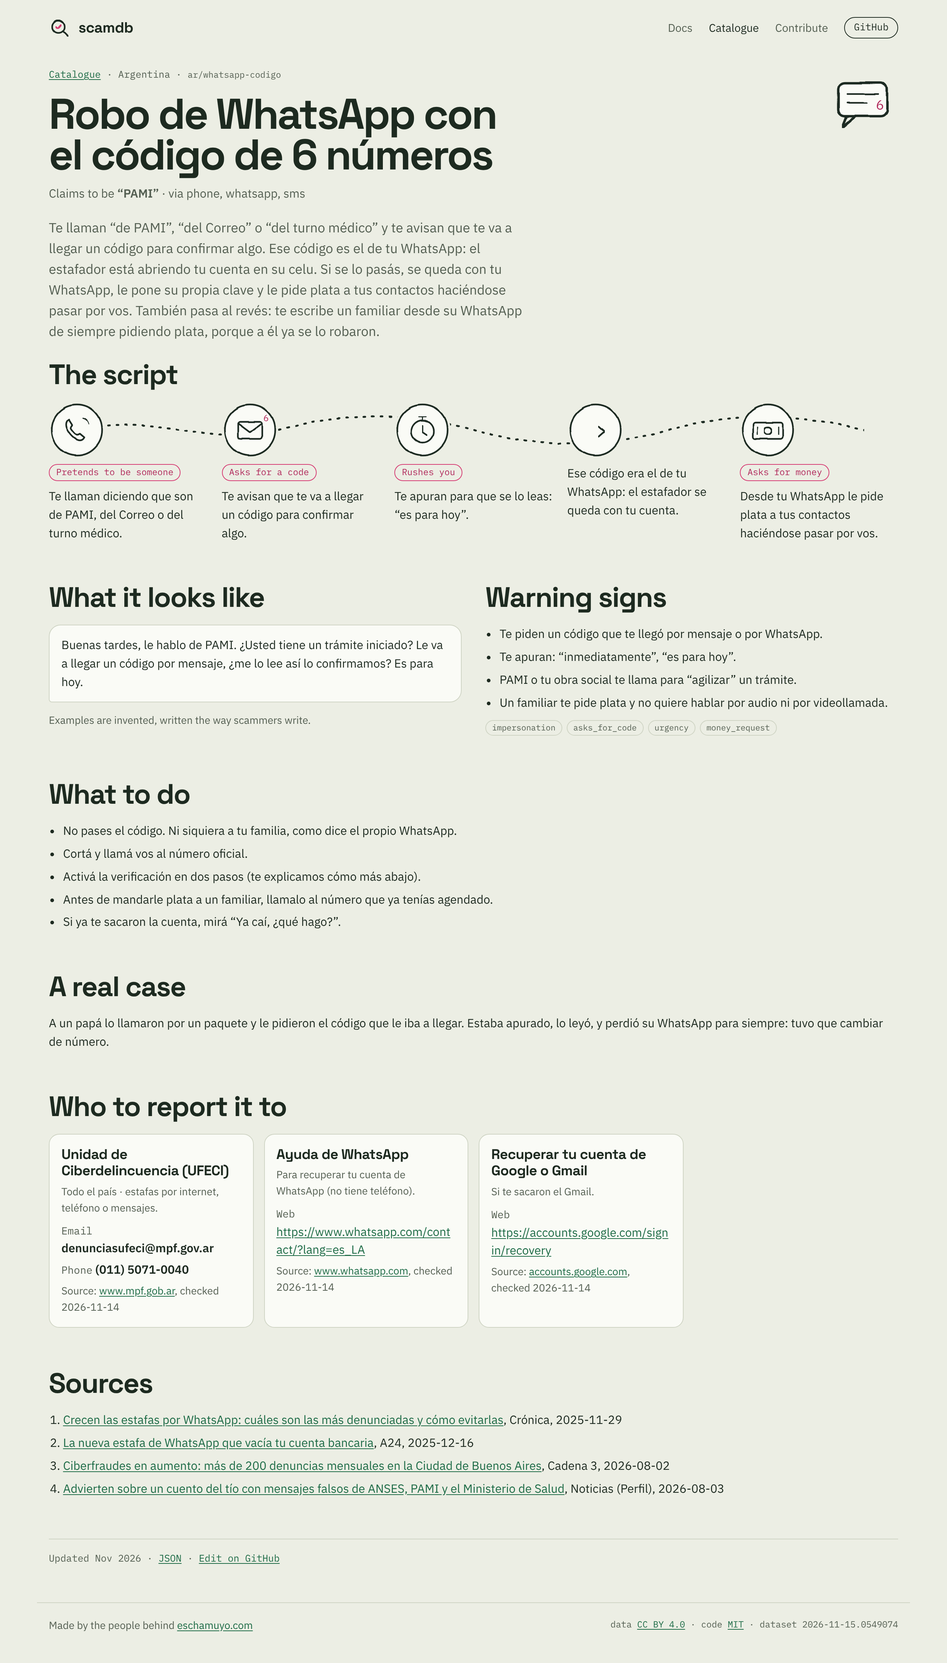
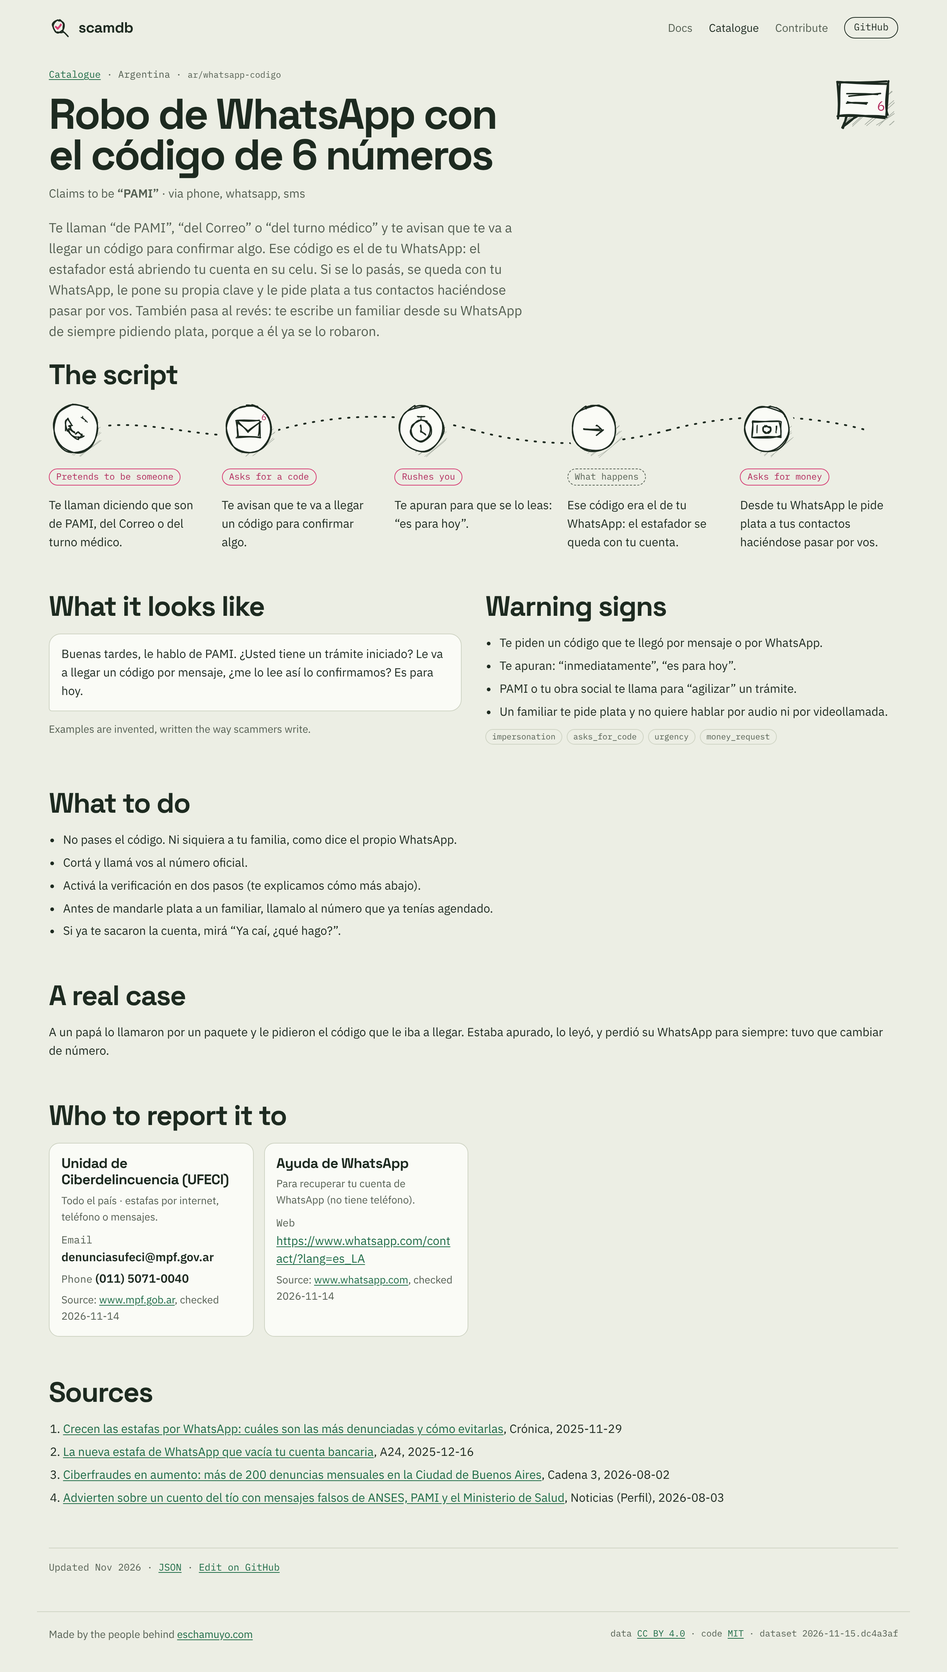
feat(site): pen-and-shading drawings everywhere; steps spacing and labels
Claude-Session: https://claude.ai/code/session_018T2J1K6Mk5un4HEeZgARrY

diff --git a/site/templates/icons.js b/site/templates/icons.js
@@ -1,19 +1,74 @@
-// Hand-drawn icons (64×64). Strokes use the .d / .d-thin / .d-acc classes; the #rough filter makes them wobble.
-const svg = (inner) => `<svg class="ic" viewBox="0 0 64 64" aria-hidden="true" focusable="false">${inner}</svg>`;
+// Hand-drawn icons, generated at build time in the pen-and-shading style (lib/sketch.js).
+import { sketch } from '../../lib/sketch.js';
+
+const svg = (inner, size = 64) => `<svg class="ic" viewBox="0 0 ${size} ${size}" aria-hidden="true" focusable="false">${inner}</svg>`;
+
+/** Draws one icon: `parts` is a list of [shape, ...args, opts?] run through a sketcher with its own seed. */
+function icon(seed, parts, extra = '') {
+  const s = sketch(seed);
+  return svg(parts.map(([shape, ...args]) => s[shape](...args)).join('') + extra);
+}
 
 export const ICONS = {
-  phone: svg('<path class="d" d="M20 14 c-6 3-8 12-2 22 s16 18 23 18 c4 0 7-3 8-6 l-9-7 c-3 1-4 3-7 1 s-8-8-9-11 c0-3 2-4 3-6 z"/><path class="d-acc" d="M40 12 c6 1 10 5 12 11 M38 20 c3 1 5 3 6 6"/>'),
-  sms: svg('<rect class="d f-card" x="10" y="14" width="44" height="30" rx="6"/><path class="d" d="M18 44 l-4 10 12-10"/><path class="d-thin" d="M18 24 h28 M18 32 h18"/><text x="44" y="38" class="t-code">6</text>'),
-  house: svg('<path class="d" d="M10 30 L32 12 54 30"/><path class="d f-card" d="M16 26 v26 h32 v-26"/><rect class="d" x="27" y="36" width="10" height="16"/><path class="d-acc" d="M46 6 v8 M46 18 v.5"/>'),
-  bank: svg('<path class="d" d="M8 24 L32 10 56 24 z"/><path class="d" d="M14 28 v20 M24 28 v20 M40 28 v20 M50 28 v20"/><path class="d" d="M8 52 h48"/><circle class="d-acc" cx="32" cy="38" r="5"/>'),
-  screen: svg('<rect class="d f-card" x="10" y="14" width="44" height="30" rx="3"/><path class="d" d="M24 52 h16 M32 44 v8"/><path class="d-acc" d="M26 26 l6 6 -6 6 M34 38 h6"/>'),
-  card: svg('<rect class="d f-card" x="8" y="18" width="48" height="30" rx="4"/><path class="d" d="M8 26 h48"/><path class="d-acc" d="M16 38 h12"/>'),
-  heart: svg('<path class="d f-card" d="M32 52 C 14 40, 8 30, 14 20 c5-7 14-6 18 2 c4-8 13-9 18-2 c6 10 0 20-18 32 z"/><path class="d-acc" d="M44 14 l6-6 M48 20 l8-2"/>'),
-  ticket: svg('<path class="d f-card" d="M10 20 h44 v8 a4 4 0 0 0 0 8 v8 h-44 v-8 a4 4 0 0 0 0-8 z"/><path class="d-thin" d="M40 20 v24" stroke-dasharray="3 3"/><path class="d-acc" d="M18 28 l12 8 M30 28 l-12 8"/>'),
-  chart: svg('<path class="d" d="M10 52 h46 M12 52 V12"/><path class="d-acc" d="M14 44 L26 32 34 38 52 16"/><path class="d" d="M44 16 h8 v8"/>'),
-  gift: svg('<rect class="d f-card" x="12" y="26" width="40" height="26" rx="2"/><path class="d" d="M10 20 h44 v6 h-44 z M32 20 v32"/><path class="d-acc" d="M32 20 c-4-10-16-8-10 0 M32 20 c4-10 16-8 10 0"/>'),
-  cart: svg('<path class="d" d="M8 12 h8 l6 28 h28 l4-18 H20"/><circle class="d" cx="26" cy="50" r="3"/><circle class="d" cx="46" cy="50" r="3"/><path class="d-acc" d="M30 28 h14"/>'),
-  briefcase: svg('<rect class="d f-card" x="10" y="20" width="44" height="30" rx="3"/><path class="d" d="M24 20 v-6 h16 v6 M10 32 h44"/><circle class="d-acc" cx="32" cy="32" r="3"/>'),
+  phone: icon(101, [
+    ['path', 'M20 14 c-6 3-8 12-2 22 s16 18 23 18 c4 0 7-3 8-6 l-9-7 c-3 1-4 3-7 1 s-8-8-9-11 c0-3 2-4 3-6 z', { fill: 'card', shade: true }],
+    ['path', 'M40 12 c6 1 10 5 12 11 M38 20 c3 1 5 3 6 6', { kind: 'acc' }],
+  ]),
+  sms: icon(111, [
+    ['rect', 10, 14, 44, 30, { fill: 'card', shade: true }],
+    ['path', 'M18 44 l-4 10 12-10'],
+    ['path', 'M18 24 h28 M18 32 h18', { kind: 'thin' }],
+  ], '<text x="45" y="39" class="t-code">6</text>'),
+  house: icon(121, [
+    ['path', 'M16 26 v26 h32 v-26', { fill: 'card', shade: true }],
+    ['path', 'M10 30 L32 12 L54 30'],
+    ['rect', 27, 36, 10, 16],
+    ['path', 'M46 6 v8 M46 18 v1', { kind: 'acc' }],
+  ]),
+  bank: icon(131, [
+    ['path', 'M8 24 L32 10 L56 24 Z', { fill: 'card', shade: true }],
+    ['path', 'M14 28 v20 M24 28 v20 M40 28 v20 M50 28 v20 M8 52 h48'],
+    ['circle', 32, 38, 10, { kind: 'acc' }],
+  ]),
+  screen: icon(141, [
+    ['rect', 10, 14, 44, 30, { fill: 'card', shade: true }],
+    ['path', 'M24 52 h16 M32 44 v8'],
+    ['path', 'M26 26 l6 6 -6 6 M34 38 h6', { kind: 'acc' }],
+  ]),
+  card: icon(151, [
+    ['rect', 8, 18, 48, 30, { fill: 'card', shade: true }],
+    ['path', 'M8 26 h48'],
+    ['path', 'M16 38 h12', { kind: 'acc' }],
+  ]),
+  heart: icon(161, [
+    ['path', 'M32 52 C 14 40, 8 30, 14 20 c5-7 14-6 18 2 c4-8 13-9 18-2 c6 10 0 20-18 32 z', { fill: 'card', shade: true }],
+    ['path', 'M44 14 l6-6 M48 20 l8-2', { kind: 'acc' }],
+  ]),
+  ticket: icon(171, [
+    ['path', 'M10 20 h44 v8 a4 4 0 0 0 0 8 v8 h-44 v-8 a4 4 0 0 0 0-8 z', { fill: 'card', shade: true }],
+    ['path', 'M40 22 v20', { kind: 'thin' }],
+    ['path', 'M18 28 l12 8 M30 28 l-12 8', { kind: 'acc' }],
+  ]),
+  chart: icon(181, [
+    ['path', 'M10 52 h46 M12 52 V12'],
+    ['path', 'M14 44 L26 32 L34 38 L52 16', { kind: 'acc' }],
+    ['path', 'M44 16 h8 v8'],
+  ]),
+  gift: icon(191, [
+    ['rect', 12, 26, 40, 26, { fill: 'card', shade: true }],
+    ['path', 'M10 20 h44 v6 h-44 z M32 20 v32'],
+    ['path', 'M32 20 c-4-10-16-8-10 0 M32 20 c4-10 16-8 10 0', { kind: 'acc' }],
+  ]),
+  cart: icon(201, [
+    ['path', 'M8 12 h8 l6 28 h28 l4-18 H20'],
+    ['circle', 26, 50, 6], ['circle', 46, 50, 6],
+    ['path', 'M30 28 h14', { kind: 'acc' }],
+  ]),
+  briefcase: icon(211, [
+    ['rect', 10, 20, 44, 30, { fill: 'card', shade: true }],
+    ['path', 'M24 20 v-6 h16 v6 M10 32 h44'],
+    ['circle', 32, 32, 6, { kind: 'acc' }],
+  ]),
 };
 
 const RULES = [
@@ -35,19 +90,23 @@ export function iconFor(entry) {
   return ICONS.phone;
 }
 
-/** Small drawings for the steps of a script, by warning sign. */
-const step = (inner) => `<svg viewBox="0 0 76 76" aria-hidden="true" focusable="false"><circle class="d f-card" cx="38" cy="38" r="34"/>${inner}</svg>`;
+/** Drawings for the steps of a script, by warning sign: a shaded circle with a small pen icon. */
+function step(seed, parts, extra = '') {
+  const s = sketch(seed);
+  const inner = s.circle(38, 38, 66, { fill: 'card', shade: true }) + parts.map(([shape, ...args]) => s[shape](...args)).join('');
+  return `<svg viewBox="0 0 80 80" aria-hidden="true" focusable="false">${inner}${extra}</svg>`;
+}
 export const STEP_ICONS = {
-  impersonation: step('<path class="d" d="M27 24 c-4 2-5 8-1 15 s11 13 16 13 c3 0 5-2 6-4 l-6-5 c-2 1-3 2-5 1 s-6-6-7-8 c0-2 1-3 2-4 z"/><path class="d-thin" d="M46 22 c4 1 7 4 8 8"/>'),
-  asks_for_code: step('<rect class="d" x="22" y="27" width="32" height="23" rx="3"/><path class="d" d="M22 29 l16 12 16-12"/><text x="56" y="26" class="t-code">6</text>'),
-  remote_access: step('<rect class="d" x="21" y="24" width="34" height="23" rx="2"/><path class="d" d="M31 54 h14 M38 47 v7"/><path class="d-acc" d="M30 32 l5 4 -5 4"/>'),
-  urgency: step('<circle class="d" cx="38" cy="40" r="15"/><path class="d" d="M38 32 v9 l6 4"/><path class="d-thin" d="M33 20 h10 M38 20 v5"/>'),
-  money_request: step('<rect class="d" x="18" y="28" width="40" height="22" rx="3"/><circle class="d" cx="38" cy="39" r="5"/><path class="d-thin" d="M24 34 v10 M52 34 v10"/>'),
-  unknown_link: step('<path class="d" d="M33 43 l-5 5 a6 6 0 0 1 -9 -9 l7 -7 a6 6 0 0 1 9 0"/><path class="d" d="M43 33 l5 -5 a6 6 0 0 1 9 9 l-7 7 a6 6 0 0 1 -9 0"/><path class="d-acc" d="M33 43 l10 -10"/>'),
-  new_number: step('<rect class="d" x="28" y="18" width="20" height="38" rx="4"/><path class="d-acc" d="M34 50 h8"/><text x="50" y="26" class="t-code">+</text>'),
-  secrecy: step('<path class="d" d="M24 40 c6-8 22-8 28 0 c-6 8-22 8-28 0 z"/><path class="d-acc" d="M22 52 L54 26"/>'),
-  keep_on_line: step('<path class="d" d="M24 30 c8-6 20-6 28 0"/><path class="d" d="M28 36 c6-4 14-4 20 0"/><circle class="d-acc" cx="38" cy="46" r="3"/>'),
-  too_good_to_be_true: step('<path class="d" d="M38 20 l5 11 12 1 -9 8 3 12 -11-6 -11 6 3-12 -9-8 12-1 z"/>'),
-  plain: step('<path class="d" d="M24 40 h24"/><path class="d" d="M42 33 l8 7 -8 7"/>'),
-  end: step('<rect class="d" x="25" y="36" width="26" height="20" rx="3"/><path class="d" d="M31 36 v-6 a8 8 0 0 1 15 -3"/><circle class="f-ink" cx="38" cy="46" r="2.4"/>'),
+  impersonation: step(301, [['path', 'M27 24 c-4 2-5 8-1 15 s11 13 16 13 c3 0 5-2 6-4 l-6-5 c-2 1-3 2-5 1 s-6-6-7-8 c0-2 1-3 2-4 z'], ['path', 'M46 22 c4 1 7 4 8 8', { kind: 'thin' }]]),
+  asks_for_code: step(311, [['rect', 22, 27, 32, 23], ['path', 'M22 29 l16 12 16-12']], '<text x="56" y="26" class="t-code">6</text>'),
+  remote_access: step(321, [['rect', 21, 24, 34, 23], ['path', 'M31 54 h14 M38 47 v7'], ['path', 'M30 32 l5 4 -5 4', { kind: 'acc' }]]),
+  urgency: step(331, [['circle', 38, 41, 30], ['path', 'M38 33 v9 l6 4'], ['path', 'M33 21 h10 M38 21 v5', { kind: 'thin' }]]),
+  money_request: step(341, [['rect', 18, 28, 40, 22], ['circle', 38, 39, 10], ['path', 'M24 34 v10 M52 34 v10', { kind: 'thin' }]]),
+  unknown_link: step(351, [['path', 'M33 43 l-5 5 a6 6 0 0 1 -9 -9 l7 -7 a6 6 0 0 1 9 0'], ['path', 'M43 33 l5 -5 a6 6 0 0 1 9 9 l-7 7 a6 6 0 0 1 -9 0'], ['path', 'M33 43 l10 -10', { kind: 'acc' }]]),
+  new_number: step(361, [['rect', 28, 18, 20, 38], ['path', 'M34 50 h8', { kind: 'acc' }]], '<text x="50" y="26" class="t-code">+</text>'),
+  secrecy: step(371, [['path', 'M24 40 c6-8 22-8 28 0 c-6 8-22 8-28 0 z'], ['path', 'M22 52 L54 26', { kind: 'acc' }]]),
+  keep_on_line: step(381, [['path', 'M24 30 c8-6 20-6 28 0'], ['path', 'M28 36 c6-4 14-4 20 0'], ['circle', 38, 46, 6, { kind: 'acc' }]]),
+  too_good_to_be_true: step(391, [['path', 'M38 20 l5 11 12 1 -9 8 3 12 -11-6 -11 6 3-12 -9-8 12-1 z']]),
+  plain: step(401, [['path', 'M24 40 h24'], ['path', 'M42 33 l8 7 -8 7']]),
+  end: step(411, [['rect', 25, 36, 26, 20], ['path', 'M31 36 v-6 a8 8 0 0 1 15 -3'], ['circle', 38, 46, 4]]),
 };

diff --git a/site/templates/home.js b/site/templates/home.js
@@ -2,6 +2,7 @@ import { esc, L } from './html.js';
 import { layout } from './layout.js';
 import { steps, card, entryUrl } from './parts.js';
 import { pick } from '../../lib/text.js';
+import { sketch, roundRect } from '../../lib/sketch.js';
 
 export const FEATURED = ['ar/cuento-del-tio', 'ar/falso-banco', 'ar/acceso-remoto'];
 export const ROUTE = 'ar/whatsapp-codigo';
@@ -12,19 +13,35 @@ export const SAMPLES = [
 ];
 const VERDICT_TEXT = { scam: 'scam', suspicious: 'suspicious', not_recognised: 'not recognised' };
 
-const HERO_ART = `<svg viewBox="0 0 540 460" role="img" aria-labelledby="hero-t"><title id="hero-t">A drawn phone showing the PAMI code scam, with handwritten notes pointing at each warning sign</title>
-<rect class="d f-card" x="165" y="30" width="210" height="390" rx="30"/><path class="d-thin" d="M245 52 h50"/><circle class="d-thin" cx="270" cy="400" r="9"/>
-<circle class="d-thin" cx="200" cy="88" r="13"/><text class="t-ui" x="222" y="85" font-weight="600">“PAMI”</text><text class="t-mono" x="222" y="100">+54 11 ···· 2231</text><path class="d-thin" d="M182 116 h176"/>
-<path class="d f-paper" d="M186 130 h150 a12 12 0 0 1 12 12 v86 a12 12 0 0 1 -12 12 h-138 l-12 10 v-108 a12 12 0 0 1 0 -12 z"/>
-<rect class="f-hl" x="196" y="186" width="46" height="17" rx="3"/>
-<text class="t-ui" x="198" y="156">Le hablo de PAMI.</text><text class="t-ui" x="198" y="176">Le va a llegar un</text><text class="t-ui" x="198" y="198">código, ¿me lo lee</text><text class="t-ui" x="198" y="218">así confirmamos?</text><text class="t-ui" x="198" y="234" font-weight="600" font-size="12">Es para hoy.</text>
-<rect class="d-thin f-paper" x="214" y="268" width="134" height="44" rx="10"/><text class="t-mono" x="226" y="285">SMS · WhatsApp</text><text class="t-ui" x="226" y="303" font-weight="600" letter-spacing="2">482-913</text>
-<g transform="rotate(-9 270 352)"><rect class="d-acc" x="206" y="332" width="128" height="40" rx="6"/><text x="270" y="359" text-anchor="middle" class="t-stamp">SCAM</text></g>
-<text class="t-hand" x="20" y="92">fake agency</text><path class="d-thin" d="M118 96 C 145 104, 160 94, 186 88"/><path class="d-thin" d="M178 82 l9 6 -9 5"/>
-<text class="t-hand" x="34" y="232">rushes you</text><path class="d-thin" d="M124 228 C 150 236, 165 236, 190 232"/><path class="d-thin" d="M182 226 l9 6 -9 6"/>
-<text class="t-hand-acc" x="392" y="182">asks for</text><text class="t-hand-acc" x="392" y="204">a code!</text><path class="d-acc" d="M388 194 C 375 200, 365 202, 352 199"/><path class="d-acc" d="M361 193 l-10 6 10 6"/>
-<text class="t-hand" x="392" y="300">never read it</text><text class="t-hand" x="392" y="322">to anyone</text><path class="d-thin" d="M390 302 C 375 298, 362 294, 352 292"/><path class="d-thin" d="M360 286 l-9 6 9 5"/>
-<text class="t-mono" x="392" y="420">ar/whatsapp-codigo</text></svg>`;
+const HERO_ART = (() => {
+  const k = sketch(601);
+  const bx = 174, bw = 162, tx = bx + 24;
+  const notes = sketch(651);
+  const arrow = (d, head, kind = 'thin') => notes.path(d, { kind }) + notes.path(head, { kind });
+  return `<svg viewBox="0 0 540 460" role="img" aria-labelledby="hero-t"><title id="hero-t">${'${title}'}</title>
+${k.path(roundRect(165, 30, 210, 390, 30), { fill: 'card', shade: true })}
+${k.line(245, 52, 295, 52, { kind: 'thin' })}${k.circle(270, 400, 18)}${k.circle(200, 88, 26)}
+<text class="t-ui" x="222" y="85" font-weight="600">“PAMI”</text><text class="t-mono" x="222" y="100">+54 11 ···· 2231</text>
+${k.line(182, 116, 358, 116, { kind: 'thin' })}
+${k.path(`M${bx + 12} 130 h${bw - 12} a12 12 0 0 1 12 12 v86 a12 12 0 0 1 -12 12 h-${bw - 24} l-12 12 v-110 a12 12 0 0 1 12 -12 z`, { fill: 'paper', shade: true })}
+<rect class="f-hl" x="${tx - 2}" y="186" width="46" height="17" rx="3"/>
+<text class="t-ui" x="${tx}" y="156">Le hablo de PAMI.</text><text class="t-ui" x="${tx}" y="176">Le va a llegar un</text><text class="t-ui" x="${tx}" y="198">código, ¿me lo lee</text><text class="t-ui" x="${tx}" y="218">así confirmamos?</text><text class="t-ui" x="${tx}" y="234" font-weight="600" font-size="12">Es para hoy.</text>
+${k.rect(214, 268, 134, 44, { kind: 'thin' })}
+<text class="t-mono" x="226" y="285">SMS · WhatsApp</text><text class="t-ui" x="226" y="303" font-weight="600" letter-spacing="2">482-913</text>
+<g transform="rotate(-9 270 352)">${k.rect(206, 332, 128, 40, { kind: 'acc' })}<text x="270" y="359" text-anchor="middle" class="t-stamp">${'${stamp}'}</text></g>
+<text class="t-hand" x="20" y="92">${'${n1}'}</text>${arrow('M118 96 C 145 104, 160 94, 184 88', 'M176 82 L186 88 L176 94')}
+<text class="t-hand" x="30" y="232">${'${n2}'}</text>${arrow(`M120 228 C 140 236, 150 236, ${tx - 6} 232`, `M${tx - 14} 226 L${tx - 4} 232 L${tx - 14} 238`)}
+<text class="t-hand-acc" x="400" y="182">${'${n3a}'}</text><text class="t-hand-acc" x="400" y="204">${'${n3b}'}</text>${arrow('M396 194 C 380 200, 368 202, 352 199', 'M362 192 L351 199 L362 206', 'acc')}
+<text class="t-hand" x="400" y="300">${'${n4a}'}</text><text class="t-hand" x="400" y="322">${'${n4b}'}</text>${arrow('M396 302 C 380 298, 366 294, 352 292', 'M361 285 L351 292 L361 298')}
+<text class="t-mono" x="392" y="440">ar/whatsapp-codigo</text></svg>`;
+})();
+const MARK = sketch(701).path('M3 12 C 50 4, 120 4, 197 10 M20 16 C 70 11, 130 12, 180 15', { kind: 'acc' });
+
+/** The hero drawing with its notes in the interface language. */
+export const heroArt = (w) => HERO_ART.replace('${title}', w.title).replace('${stamp}', w.stamp)
+  .replace('${n1}', w.n1).replace('${n2}', w.n2).replace('${n3a}', w.n3a).replace('${n3b}', w.n3b).replace('${n4a}', w.n4a).replace('${n4b}', w.n4b);
+const HERO_EN = { title: 'A drawn phone showing the PAMI code scam, with handwritten notes pointing at each warning sign', stamp: 'SCAM',
+  n1: 'fake agency', n2: 'rushes you', n3a: 'asks for', n3b: 'a code!', n4a: 'never read it', n4b: 'to anyone' };
 
 /** The response panel as HTML (used at build time for the no-JS state; playground.js renders the same markup). */
 export function resultHtml(r, entriesById, signalsById) {
@@ -46,11 +63,11 @@ export function home({ repo, meta, matchMessage }) {
 <section class="hero">
   <div>
     <p class="eyebrow">${repo.entries.length} scams · ${esc(countries.join(', '))} · open data</p>
-    <h1>A field guide to <span class="mark">scams.<svg viewBox="0 0 200 20" preserveAspectRatio="none" aria-hidden="true" focusable="false"><path class="d-acc" d="M3 12 C 50 4, 120 4, 197 10 M20 16 C 70 11, 130 12, 180 15"/></svg></span></h1>
+    <h1>A field guide to <span class="mark">scams.<svg viewBox="0 0 200 20" preserveAspectRatio="none" aria-hidden="true" focusable="false">${MARK}</svg></span></h1>
     <p class="lede">How each scam works, the words it uses, the warning signs and who to call, country by country. Free to download and free to build on.</p>
     <div class="btns"><a class="btn solid" href="/catalogue/">Browse the catalogue</a><a class="btn" href="/docs/">Read the docs</a></div>
   </div>
-  <div class="hero-art">${HERO_ART}</div>
+  <div class="hero-art">${heroArt(HERO_EN)}</div>
 </section>
 
 <section class="panel" aria-labelledby="pg-h">

diff --git a/site/assets/styles.css b/site/assets/styles.css
@@ -36,12 +36,15 @@ code, .mono { font-family: var(--mono); font-size: .9em; }
 :focus-visible { outline: 2px solid var(--link); outline-offset: 2px; }
 .small { font-size: 14px; color: var(--dim); }
 
-/* drawings: strokes wobble, text stays crisp */
-.d, .d-thin, .d-acc { fill: none; stroke-linecap: round; stroke-linejoin: round; filter: url(#rough); }
-.d { stroke: var(--ink); stroke-width: 2.2; }
-.d-thin { stroke: var(--ink); stroke-width: 1.5; }
-.d-acc { stroke: var(--accent); stroke-width: 2.6; }
-.f-card { fill: var(--card); } .f-paper { fill: var(--paper); } .f-hl { fill: var(--hl); } .f-ink { fill: var(--ink); }
+/* drawings: generated at build time (lib/sketch.js) in pen-and-shading style; colours come from tokens */
+.sk, .sk-thin, .sk-acc { fill: none; stroke-linecap: round; stroke-linejoin: round; }
+.sk { stroke: var(--ink); stroke-width: 1.8; }
+.sk-thin { stroke: var(--ink); stroke-width: 1.3; }
+.sk-acc { stroke: var(--accent); stroke-width: 2.4; }
+.sk-shade { fill: none; stroke: var(--ink); stroke-width: .6; opacity: .35; }
+.sk-fill-card { fill: var(--card); stroke: none; } .sk-fill-paper { fill: var(--paper); stroke: none; }
+.route-line path, .mark path { vector-effect: non-scaling-stroke; }
+.f-hl { fill: var(--hl); } .f-ink { fill: var(--ink); }
 .t-hand { font-family: var(--hand); fill: var(--ink); font-size: 21px; }
 .t-hand-acc { font-family: var(--hand); fill: var(--accent-ink); font-size: 21px; }
 .t-ui { font-family: var(--body); fill: var(--ink); font-size: 13px; }
@@ -80,9 +83,8 @@ main section { margin-bottom: 56px; }
 .hero { display: grid; grid-template-columns: minmax(0, 1fr) minmax(0, 1fr); gap: 32px; align-items: center; padding-block: 16px 24px; }
 .mark { position: relative; white-space: nowrap; }
 .mark svg { position: absolute; left: -2%; bottom: -.16em; width: 104%; height: .32em; overflow: visible; }
-.mark .d-acc { stroke-width: 3.2; }
+.mark .sk-acc { stroke-width: 3.2; }
 .hero-art svg { width: 100%; height: auto; display: block; max-width: 560px; margin-left: auto; }
-.hero-art .d-acc { stroke-width: 3; }
 
 /* playground */
 .panel { background: var(--panel); color: var(--panel-ink); border-radius: 22px; display: grid; grid-template-columns: minmax(0, 1fr) minmax(0, 1fr); overflow: hidden; }
@@ -115,14 +117,15 @@ main section { margin-bottom: 56px; }
 /* steps */
 .steps-wrap { position: relative; }
 .route-line { position: absolute; left: 4%; top: 8px; height: 60px; width: 92%; }
-.route-line .d { stroke-width: 2.6; }
+.route-line .sk { stroke-width: 2.4; }
 .steps { position: relative; display: grid; grid-template-columns: repeat(var(--n, 4), minmax(0, 1fr)); gap: 20px; list-style: none; margin: 0; padding: 0; }
-.step { display: grid; gap: 8px; justify-items: start; align-content: start; }
+.step { display: grid; gap: 14px; justify-items: start; align-content: start; }
 .sic { width: 76px; height: 76px; border-radius: 50%; background: var(--paper); }
-.sic svg { width: 76px; height: 76px; display: block; }
+.sic svg { width: 76px; height: 76px; display: block; overflow: visible; }
 .step.last .sic { background: var(--hl); }
 .step p { margin: 0; font-size: 16px; }
 .flag { font-family: var(--mono); font-size: 12px; color: var(--accent-ink); border: 1.5px solid var(--accent); border-radius: 999px; padding: 1px 9px; }
+.flag.out { color: var(--dim); border-color: var(--dim); border-style: dashed; }
 
 /* cards */
 .specimens { display: grid; grid-template-columns: repeat(3, minmax(0, 1fr)); gap: 18px; }

diff --git a/site/templates/parts.js b/site/templates/parts.js
@@ -2,18 +2,22 @@
 import { esc, L, monthYear, plural } from './html.js';
 import { iconFor, STEP_ICONS } from './icons.js';
 import { pick } from '../../lib/text.js';
+import { sketch } from '../../lib/sketch.js';
+
+const ROUTE_LINE = sketch(501).path('M0 30 C 80 6, 170 54, 250 30 S 420 6, 500 30 S 670 54, 750 30 S 920 8, 1000 30', { dash: [2, 10] });
 
 export const entryUrl = (e) => `/catalogue/${e.id}/`;
 
 /** The script of a scam as drawn steps joined by a dotted line. */
-export function steps(entry, signalsById, lang = 'es') {
+export function steps(entry, signalsById, lang = 'es', ui = { whatHappens: 'What happens', labelLang: 'en' }) {
   const items = entry.steps.map((s, i) => {
     const last = i === entry.steps.length - 1;
     const icon = STEP_ICONS[s.signal] ?? STEP_ICONS[last ? 'end' : 'plain'];
     const label = s.signal ? signalsById.get(s.signal)?.label : null;
-    return `<li class="step${last && !s.signal ? ' last' : ''}"><div class="sic">${icon}</div>${label ? `<span class="flag">${esc(pick(label, 'en'))}</span>` : ''}${L(s.text, lang, 'p')}</li>`;
+    const flag = label ? `<span class="flag">${esc(pick(label, ui.labelLang))}</span>` : `<span class="flag out">${esc(ui.whatHappens)}</span>`;
+    return `<li class="step${last && !s.signal ? ' last' : ''}"><div class="sic">${icon}</div>${flag}${L(s.text, lang, 'p')}</li>`;
   }).join('');
-  return `<div class="steps-wrap"><svg class="route-line" viewBox="0 0 1000 60" preserveAspectRatio="none" aria-hidden="true" focusable="false"><path class="d" d="M0 30 C 80 6, 170 54, 250 30 S 420 6, 500 30 S 670 54, 750 30 S 920 8, 1000 30" stroke-dasharray="2 9"/></svg><ol class="steps" style="--n:${entry.steps.length}">${items}</ol></div>`;
+  return `<div class="steps-wrap"><svg class="route-line" viewBox="0 0 1000 60" preserveAspectRatio="none" aria-hidden="true" focusable="false">${ROUTE_LINE}</svg><ol class="steps" style="--n:${entry.steps.length}">${items}</ol></div>`;
 }
 
 /** A catalogue card. */

diff --git a/site/templates/layout.js b/site/templates/layout.js
@@ -1,10 +1,12 @@
 // The page shell: head, nav, footer and the hidden SVG filter that makes lines look hand-drawn.
 import { esc } from './html.js';
+import { sketch } from '../../lib/sketch.js';
 
 export const SITE = 'https://scamdb.dev';
 export const REPO = 'https://github.com/nahuelsantos/scamdb';
 
-const LOGO = '<svg viewBox="0 0 30 30" aria-hidden="true" focusable="false"><circle class="d" cx="13" cy="13" r="8.5"/><path class="d" d="M19.5 19.5 L26 26"/><path class="d-acc" d="M9.5 13.2 l2.4 2.4 4.4-5"/></svg>';
+const LS = sketch(801);
+const LOGO = `<svg viewBox="0 0 30 30" aria-hidden="true" focusable="false">${LS.circle(13, 13, 17)}${LS.path('M19.5 19.5 L26 26')}${LS.path('M9.5 13.2 l2.4 2.4 4.4-5', { kind: 'acc' })}</svg>`;
 
 export function layout({ title, description, body, path, meta, scripts = '' }) {
   const nav = [['/docs/', 'Docs'], ['/catalogue/', 'Catalogue'], ['/contribute/', 'Contribute']]
@@ -26,7 +28,6 @@ export function layout({ title, description, body, path, meta, scripts = '' }) {
 <link rel="stylesheet" href="/assets/styles.css">
 </head>
 <body>
-<svg width="0" height="0" style="position:absolute" aria-hidden="true" focusable="false"><filter id="rough" x="-5%" y="-5%" width="110%" height="110%"><feTurbulence type="fractalNoise" baseFrequency="0.035" numOctaves="2" seed="7" result="n"/><feDisplacementMap in="SourceGraphic" in2="n" scale="2.6" xChannelSelector="R" yChannelSelector="G"/></filter></svg>
 <a class="skip" href="#main">Skip to content</a>
 <header class="wrap top">
   <a class="logo" href="/">${LOGO}<span>scamdb</span></a>
